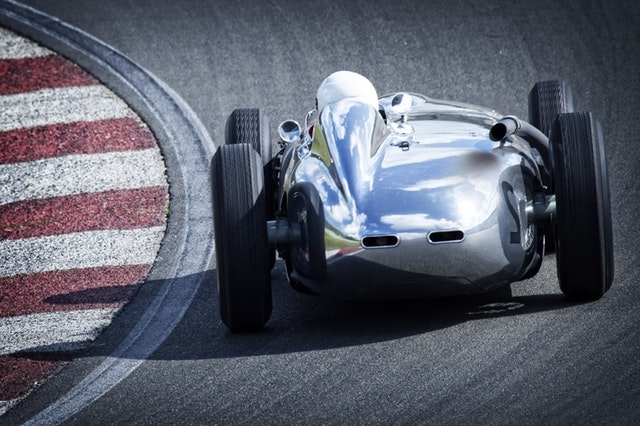
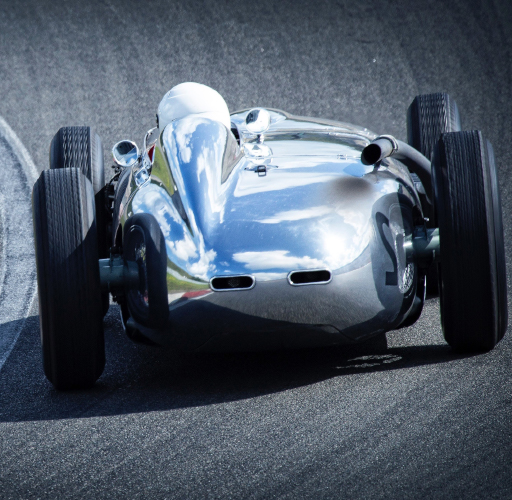
chore: update 'Our Offering' img

diff --git a/src/app/ourOffering/ourOffering.component.html b/src/app/ourOffering/ourOffering.component.html
@@ -1,5 +1,5 @@
 <div class="jumbotron custom header-section">
-    <div class="container">
+    <div class="container-increased">
         <div class="row">
             <div class="get-it w-100">
                 <h2 class="text-center">
@@ -10,10 +10,10 @@
         </div>
     </div>
 </div>
-<div class="container">
+<div class="container-increased">
     <div class="parent w-100">
         <div class="child w-50">
-            <div class="card" style="height:350px; border-radius:0" id="searchSelectSave">
+            <div class="card" style="height:450px; border-radius:0" id="searchSelectSave">
                 <div class="card-body" style="border-radius:0">
                     <br>
                     <h4 class="custom">"Search - Select - Save"</h4>
@@ -30,7 +30,7 @@
             </div>
         </div>
         <div class="child w-50">
-            <img src="../../assets/Our Offering.jpg" class="w-100" style="height:380px" />
+            <img src="../../assets/Our Offering.jpeg" class="w-100" style="height:500px" />
         </div>
     </div>
 </div>
